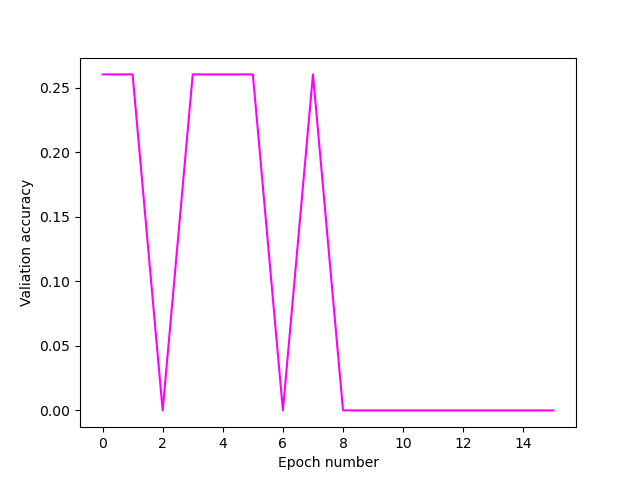
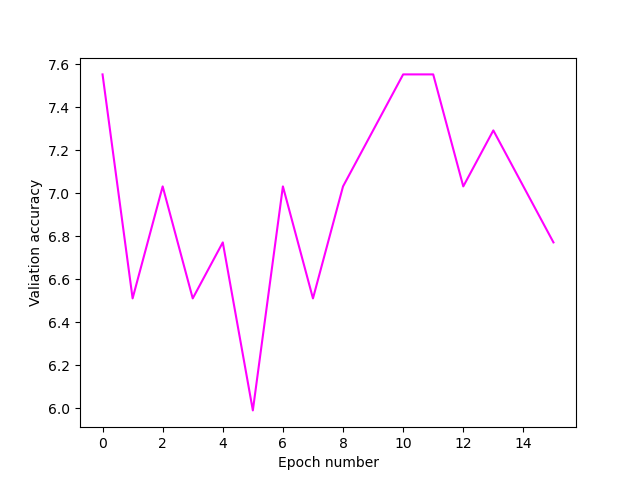
adding the team model used for part 3

diff --git a/teamModel4/teamModel4.py b/teamModel4/teamModel4.py
@@ -83,104 +83,17 @@ val_loader = DataLoader(val_set, batch_size=batchsize, drop_last=True, shuffle=T
 test_loader = DataLoader(test_set, batch_size=batchsize, drop_last=True, shuffle=True)
 
 ## Team Model 4
-#########
-## First, we create the basic block that will be used in our residual net
-class BasicBlock(nn.Module):
-    def __init__(self, in_channels, out_channels, stride=1):
-        super(BasicBlock, self).__init__()
-        ## Conv1: convolution layer, batch normalization, ReLU activation
-        self.conv1 = nn.Conv2d(in_channels, out_channels, kernel_size=3, stride=stride, padding=1, bias=False)
-        self.bn1 = nn.BatchNorm2d(out_channels)
-        self.relu = nn.ReLU(inplace=True)
-
-        ## Conv2: convolution layer, batch normalization
-        self.conv2 = nn.Conv2d(out_channels, out_channels, kernel_size=3, stride=1, padding=1, bias=False)
-        self.bn2 = nn.BatchNorm2d(out_channels)
-
-        ## Shortcut connection: adds input to output
-        self.shortcut = nn.Sequential()
-        if stride != 1 or in_channels != out_channels:
-            self.shortcut = nn.Sequential(
-                nn.Conv2d(in_channels, out_channels, kernel_size=1, stride=stride, bias=False),
-                nn.BatchNorm2d(out_channels)
-            )
-
-    # The forward method calls on each layer
-    def forward(self, x):
-        ## Conv1: convolution layer, batch normalization, ReLU activation
-        out = self.conv1(x) 
-        out = self.bn1(out)
-        out = self.relu(out)
-        ## Conv2: convolution layer, batch normalization
-        out = self.conv2(out)
-        out = self.bn2(out)
-        ## Shortcut connection
-        out += self.shortcut(x)
-        ## Final activation
-        out = self.relu(out)
-        return out
-
-############
-## Next, we put together these building blocks and create our residual net
-class ResNet18(nn.Module):
-    # specify the number of classes that we are predicting
-    def __init__(self, num_classes=6):
-        super(ResNet18, self).__init__()
-        # In channels = Num pixels in H + Num pixels in W
-        self.in_channels = 64
-        
-        # First convolution set (convolution, batch norm, relu)
-        self.conv1 = nn.Conv2d(3, 64, kernel_size=3, stride=1, padding=1, bias=False)
-        self.bn1 = nn.BatchNorm2d(64)
-        self.relu = nn.ReLU(inplace=True)
-
-        # Our building blocks
-        # The numbers correspond to the matrix shape
-        ### We increase the number of filters/channels (i.e., the first number) as we go
-        self.layer1 = self._make_layer(BasicBlock, 64, 2, stride=1)
-        self.layer2 = self._make_layer(BasicBlock, 128, 2, stride=2)
-        self.layer3 = self._make_layer(BasicBlock, 256, 2, stride=2)
-        self.layer4 = self._make_layer(BasicBlock, 512, 2, stride=2)
-
-        # Average pooling 
-        self.avgpool = nn.AdaptiveAvgPool2d((1, 1))
-
-        # Final layer that makes the classification
-        self.fc = nn.Linear(512, num_classes)
-
-    def _make_layer(self, block, out_channels, num_blocks, stride):
-        strides = [stride] + [1]*(num_blocks-1)
-        layers = []
-        for stride in strides:
-            layers.append(block(self.in_channels, out_channels, stride))
-            self.in_channels = out_channels
-        return nn.Sequential(*layers)
-
-    def forward(self, x):
-        # First convolution set (convolution, batch norm, relu)
-        out = self.conv1(x)
-        out = self.bn1(out)
-        out = self.relu(out)
-        # Our 4 building blocks
-        out = self.layer1(out)
-        out = self.layer2(out)
-        out = self.layer3(out)
-        out = self.layer4(out)
-        
-        out = self.avgpool(out)
-        out = out.view(out.size(0), -1)
-        # Final layer that makes the classification
-        out = self.fc(out)
-        return out
-
 ## Getting our model and transferring it to the GPU
 import torchvision.models as models
 
 model = models.resnet18(weights="IMAGENET1K_V1")
+model.fc = nn.Linear(model.fc.in_features, 6)
+model = model.to(device)
 
 #define loss function & optimizer
 criterion = nn.CrossEntropyLoss()
 optimizer = optim.Adam(model.parameters(), lr=learning_rate)
+
 # predict the test dataset
 def predict(model, dataset):
     dataset_prediction = []

diff --git a/MLPart3_notes.md b/MLPart3_notes.md
@@ -75,3 +75,5 @@ All models were run with: pretrained weights, batchsize = 48-50, and resolution 
 | Makayla | 1e-15 | 16 | 8.69087 | **0%** | 8.34692 | 54m 24s | 
 
 ## Summary About our Attempts and Recommendations Moving Forward (1-3 paragraphs)
+
+The goal was to keep batchsize, resolution, and use the pretrained weights for all of our models. However, it was a bit confusing to determine if we all were really setting up the same "pretrained weights". For example, after mine and Amanda's first attempts, our metrics were vastly different in success. Her model had a validation accuracy of 98% while mine had a validation accuracy of 0%. Daniella said her metrics showed poor model performance like my metrics as well. 
